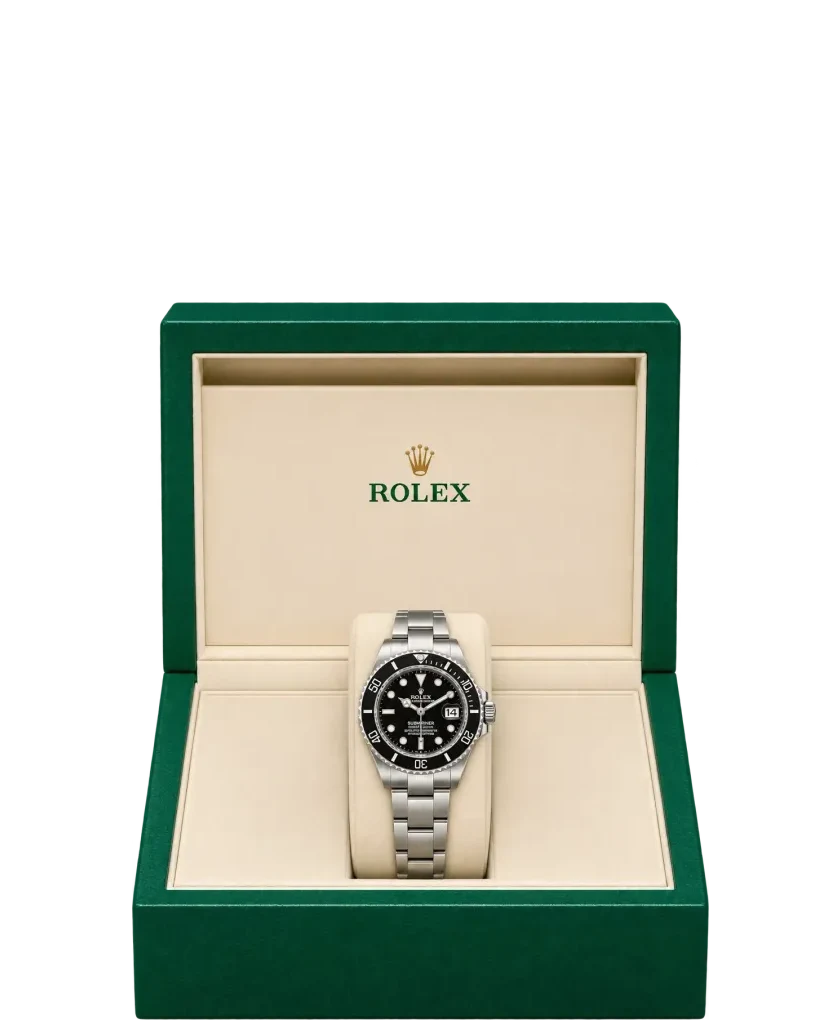
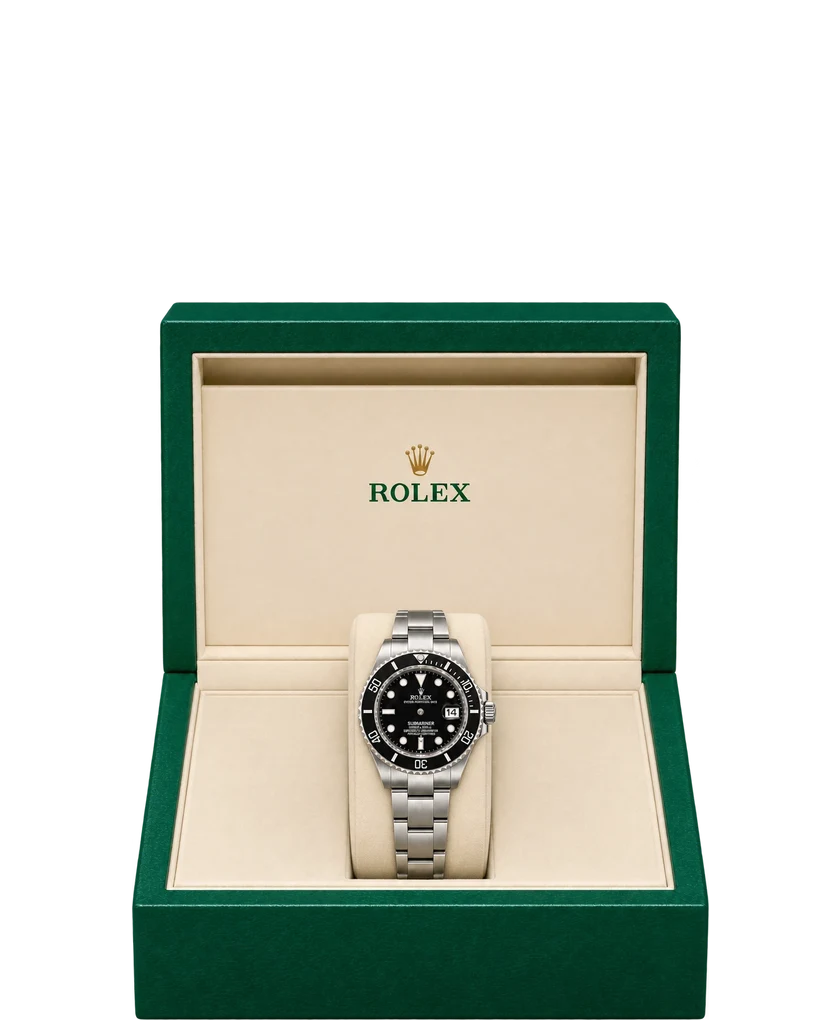
Vetrina: lancette vive sul Submariner
- Dalla foto senza lancette generata con ChatGPT prendo solo il quadrante e
  lo inserisco nella foto originale (allineate al decimo di pixel), che ha
  lo sfondo trasparente pulito.
- LiveHands: lancette del Submariner (ore "Mercedes", minuti a spada,
  secondi con punto luminoso) che segnano l'ora reale, a 8 scatti al secondo,
  solo con la vetrina sullo schermo.
- scripts/vetrina.mjs stampa la posizione del quadrante nella foto finale.
- VETRINA/: foto originali di ChatGPT come archivio (non servite dal sito).

Claude-Session: https://claude.ai/code/session_01NCWZ2EgAfWjoZpzfAus64N

Changed region(s): [[0.4333, 0.6382, 0.5571, 0.7598]]

diff --git a/src/data/brands.ts b/src/data/brands.ts
@@ -3,13 +3,15 @@
 // icon = il modello più famoso della marca, mostrato in vetrina sul cofanetto.
 // vetrina = foto (sfondo trasparente) dell'orologio nel cofanetto originale, preparata con scripts/vetrina.mjs
 //   alla stessa scala per tutte le marche; finché manca, la vetrina disegna un cofanetto con il logo della marca.
+// dial = quadrante senza lancette nella foto (centro e raggio in % della foto, dati da scripts/vetrina.mjs):
+//   sopra si disegnano le lancette che segnano l'ora reale; null = la foto ha già le sue lancette.
 export const brands = [
-  { slug: "rolex", name: "Rolex", logo: "/marche/rolex.png", ratio: 1.805, icon: "Submariner", accent: "#2f9a6a", vetrina: "/vetrina/rolex.webp", text: "Simbolo assoluto dell'alta orologeria, ogni Rolex richiede una cura e una precisione particolari. Dal Submariner al Daytona, il mio servizio si estende a tutti i modelli della Corona." },
-  { slug: "patek-philippe", name: "Patek Philippe", logo: "/marche/patek-philippe.png", ratio: 1.835, icon: "Nautilus", accent: "#4f78b8", vetrina: "/vetrina/patek-philippe.webp", text: "Meccaniche sofisticate e un design senza tempo: un Patek Philippe richiede attenzione al dettaglio e una conoscenza tecnica profonda. La mia esperienza con questa Maison garantisce al tuo orologio il trattamento che merita." },
-  { slug: "audemars-piguet", name: "Audemars Piguet", logo: "/marche/audemars-piguet.png", ratio: 4.715, icon: "Royal Oak", accent: "#3456a0", vetrina: "", text: "Audacia nel design e innovazione tecnica: le finiture di un Audemars Piguet richiedono un approccio specialistico. Curo ogni orologio della manifattura di Le Brassus nel pieno rispetto della sua unicità." },
-  { slug: "cartier", name: "Cartier", logo: "/marche/cartier.png", ratio: 1.195, icon: "Tank", accent: "#e0b56a", vetrina: "", text: "Eleganza intramontabile e uno stile inconfondibile. Lavoro su tutti i modelli Cartier, perché ogni pezzo conservi intatto il suo fascino." },
-  { slug: "tudor", name: "Tudor", logo: "/marche/tudor.png", ratio: 1.795, icon: "Black Bay", accent: "#b83a48", vetrina: "", text: "Sorella di Rolex, con un grande patrimonio e una qualità eccellente. Tratto ogni Tudor con la stessa attenzione e la stessa precisione che dedico a un Rolex." },
-  { slug: "omega", name: "Omega", logo: "/marche/omega.png", ratio: 2.045, icon: "Speedmaster", accent: "#cfd5de", vetrina: "", text: "Precisione e affidabilità che hanno fatto la storia dell'orologeria. Seguo tutti i modelli Omega, dal Seamaster allo Speedmaster, perché il tuo orologio mantenga prestazioni ottimali." },
+  { slug: "rolex", name: "Rolex", logo: "/marche/rolex.png", ratio: 1.805, icon: "Submariner", accent: "#2f9a6a", vetrina: "/vetrina/rolex.webp", dial: { x: 50.06, y: 69.71, r: 5.63, hands: "submariner", beats: 8 }, text: "Simbolo assoluto dell'alta orologeria, ogni Rolex richiede una cura e una precisione particolari. Dal Submariner al Daytona, il mio servizio si estende a tutti i modelli della Corona." },
+  { slug: "patek-philippe", name: "Patek Philippe", logo: "/marche/patek-philippe.png", ratio: 1.835, icon: "Nautilus", accent: "#4f78b8", vetrina: "/vetrina/patek-philippe.webp", dial: null, text: "Meccaniche sofisticate e un design senza tempo: un Patek Philippe richiede attenzione al dettaglio e una conoscenza tecnica profonda. La mia esperienza con questa Maison garantisce al tuo orologio il trattamento che merita." },
+  { slug: "audemars-piguet", name: "Audemars Piguet", logo: "/marche/audemars-piguet.png", ratio: 4.715, icon: "Royal Oak", accent: "#3456a0", vetrina: "", dial: null, text: "Audacia nel design e innovazione tecnica: le finiture di un Audemars Piguet richiedono un approccio specialistico. Curo ogni orologio della manifattura di Le Brassus nel pieno rispetto della sua unicità." },
+  { slug: "cartier", name: "Cartier", logo: "/marche/cartier.png", ratio: 1.195, icon: "Tank", accent: "#e0b56a", vetrina: "", dial: null, text: "Eleganza intramontabile e uno stile inconfondibile. Lavoro su tutti i modelli Cartier, perché ogni pezzo conservi intatto il suo fascino." },
+  { slug: "tudor", name: "Tudor", logo: "/marche/tudor.png", ratio: 1.795, icon: "Black Bay", accent: "#b83a48", vetrina: "", dial: null, text: "Sorella di Rolex, con un grande patrimonio e una qualità eccellente. Tratto ogni Tudor con la stessa attenzione e la stessa precisione che dedico a un Rolex." },
+  { slug: "omega", name: "Omega", logo: "/marche/omega.png", ratio: 2.045, icon: "Speedmaster", accent: "#cfd5de", vetrina: "", dial: null, text: "Precisione e affidabilità che hanno fatto la storia dell'orologeria. Seguo tutti i modelli Omega, dal Seamaster allo Speedmaster, perché il tuo orologio mantenga prestazioni ottimali." },
 ] as const;
 
 export type Brand = (typeof brands)[number];

diff --git a/src/components/LiveHands.tsx b/src/components/LiveHands.tsx
@@ -1,0 +1,79 @@
+"use client";
+import { useEffect, useRef } from "react";
+
+/**
+ * Lancette disegnate sopra la foto di un quadrante senza lancette, che segnano l'ora reale.
+ * Coordinate: viewBox -1..1, raggio 1 = bordo interno della lunetta, perno al centro.
+ * La lancetta dei secondi scatta come il calibro vero (8 volte al secondo per i Rolex a 28.800 alternanze).
+ */
+export type HandStyle = "submariner";
+
+const STEEL = "url(#lh-steel)";
+const LUME = "#f2eee2";
+
+function Submariner({ hour, minute, second }: { hour: React.Ref<SVGGElement>; minute: React.Ref<SVGGElement>; second: React.Ref<SVGGElement> }) {
+  return (
+    <>
+      {/* ore: "Mercedes" */}
+      <g ref={hour}>
+        <rect x={-0.035} y={-0.27} width={0.07} height={0.33} fill={STEEL} />
+        <circle cy={-0.37} r={0.105} fill={LUME} stroke="#dfe2e6" strokeWidth={0.03} />
+        <path d="M0 -0.37 V-0.475 M0 -0.37 L0.09 -0.318 M0 -0.37 L-0.09 -0.318" stroke="#dfe2e6" strokeWidth={0.026} />
+        <path d="M-0.05 -0.465 L0 -0.56 L0.05 -0.465 Z" fill={LUME} stroke="#dfe2e6" strokeWidth={0.02} />
+      </g>
+      {/* minuti: a spada */}
+      <g ref={minute}>
+        <path d="M-0.04 0.06 L-0.045 -0.6 L0 -0.8 L0.045 -0.6 L0.04 0.06 Z" fill={STEEL} />
+        <path d="M-0.022 -0.12 L-0.026 -0.6 L0 -0.72 L0.026 -0.6 L0.022 -0.12 Z" fill={LUME} />
+      </g>
+      {/* secondi: con il punto luminoso */}
+      <g ref={second}>
+        <rect x={-0.011} y={-0.84} width={0.022} height={1.06} fill={STEEL} />
+        <circle cy={-0.6} r={0.052} fill={LUME} stroke="#dfe2e6" strokeWidth={0.02} />
+      </g>
+    </>
+  );
+}
+
+export default function LiveHands({ style, run, beats = 8 }: { style: HandStyle; run: boolean; beats?: number }) {
+  const hour = useRef<SVGGElement>(null);
+  const minute = useRef<SVGGElement>(null);
+  const second = useRef<SVGGElement>(null);
+
+  useEffect(() => {
+    const set = () => {
+      const now = new Date();
+      const s = now.getSeconds() + Math.floor((now.getMilliseconds() / 1000) * beats) / beats;
+      const m = now.getMinutes() + now.getSeconds() / 60;
+      const h = (now.getHours() % 12) + m / 60;
+      hour.current?.setAttribute("transform", `rotate(${h * 30})`);
+      minute.current?.setAttribute("transform", `rotate(${m * 6})`);
+      second.current?.setAttribute("transform", `rotate(${s * 6})`);
+    };
+    set();
+    if (!run) return;
+    let raf = 0;
+    const tick = () => {
+      set();
+      raf = requestAnimationFrame(tick);
+    };
+    raf = requestAnimationFrame(tick);
+    return () => cancelAnimationFrame(raf);
+  }, [run, beats]);
+
+  return (
+    <svg viewBox="-1 -1 2 2" className="absolute inset-0 h-full w-full overflow-visible" aria-hidden>
+      <defs>
+        <linearGradient id="lh-steel" x1="0" x2="1">
+          <stop offset="0" stopColor="#9aa0a6" />
+          <stop offset="0.5" stopColor="#f6f7f8" />
+          <stop offset="1" stopColor="#8c9196" />
+        </linearGradient>
+      </defs>
+      <g style={{ filter: "drop-shadow(0.02px 0.04px 0.025px rgba(0,0,0,0.55))" }}>
+        {style === "submariner" && <Submariner hour={hour} minute={minute} second={second} />}
+        <circle r={0.055} fill={STEEL} stroke="rgba(0,0,0,0.35)" strokeWidth={0.01} />
+      </g>
+    </svg>
+  );
+}

diff --git a/src/components/Showcase.tsx b/src/components/Showcase.tsx
@@ -6,6 +6,7 @@ import { brands, type Brand } from "@/data/brands";
 import { whatsappLink } from "@/data/site";
 import { WhatsAppIcon } from "./WhatsAppButton";
 import BrandLogo from "./BrandLogo";
+import LiveHands from "./LiveHands";
 
 /**
  * Vetrina con faretti, una nicchia per marca: su ogni ripiano c'è il modello più famoso della marca,
@@ -54,7 +55,9 @@ function Slot({
   onHover,
   onSelect,
   reduced,
+  running,
 }: {
+  running: boolean;
   brand: Brand;
   light: Light;
   selected: boolean;
@@ -114,8 +117,24 @@ function Slot({
             }}
           >
             {photo ? (
-              // eslint-disable-next-line @next/next/no-img-element
-              <img src={photo} alt={`${brand.name} ${brand.icon} nel cofanetto originale`} draggable={false} loading="lazy" className="h-full w-full select-none object-contain object-bottom drop-shadow-[0_18px_24px_rgba(0,0,0,0.55)]" />
+              <>
+                {/* eslint-disable-next-line @next/next/no-img-element */}
+                <img src={photo} alt={`${brand.name} ${brand.icon} nel cofanetto originale`} draggable={false} loading="lazy" className="h-full w-full select-none object-contain object-bottom drop-shadow-[0_18px_24px_rgba(0,0,0,0.55)]" />
+                {brand.dial && (
+                  // il riquadro 840×1020 della foto: x e r in % della larghezza, y in % dell'altezza
+                  <span
+                    className="absolute"
+                    style={{
+                      left: `${brand.dial.x - brand.dial.r}%`,
+                      width: `${brand.dial.r * 2}%`,
+                      top: `${brand.dial.y - brand.dial.r * (840 / 1020)}%`,
+                      height: `${brand.dial.r * 2 * (840 / 1020)}%`,
+                    }}
+                  >
+                    <LiveHands style={brand.dial.hands} beats={brand.dial.beats} run={running && !reduced} />
+                  </span>
+                )}
+              </>
             ) : (
               <span className="absolute inset-x-[15%] bottom-0 top-[24%]">
                 <Cofanetto brand={brand} lit={light === "on"} />
@@ -158,6 +177,7 @@ export default function Showcase({
   const items = brands;
   const ref = useRef<HTMLElement>(null);
   const inView = useInView(ref, { once: true, amount: 0.35 });
+  const visible = useInView(ref, { amount: 0.05 }); // le lancette girano solo con la vetrina sullo schermo
   const [introLit, setIntroLit] = useState(-1); // quanti faretti si sono già accesi all'ingresso
   const [hover, setHover] = useState<number | null>(null);
   const [selected, setSelected] = useState<number | null>(null);
@@ -217,6 +237,7 @@ export default function Showcase({
                 light={lightOf(i)}
                 selected={selected === i}
                 reduced={reduced}
+                running={visible}
                 onHover={(h) => setHover((cur) => (h ? i : cur === i ? null : cur))}
                 onSelect={() => setSelected((s) => (s === i ? null : i))}
               />
